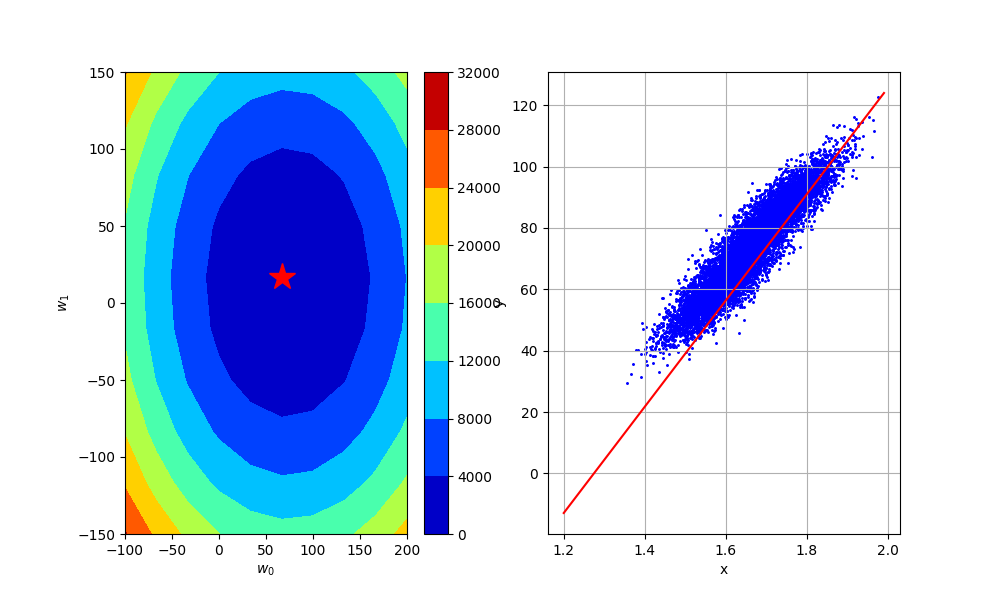
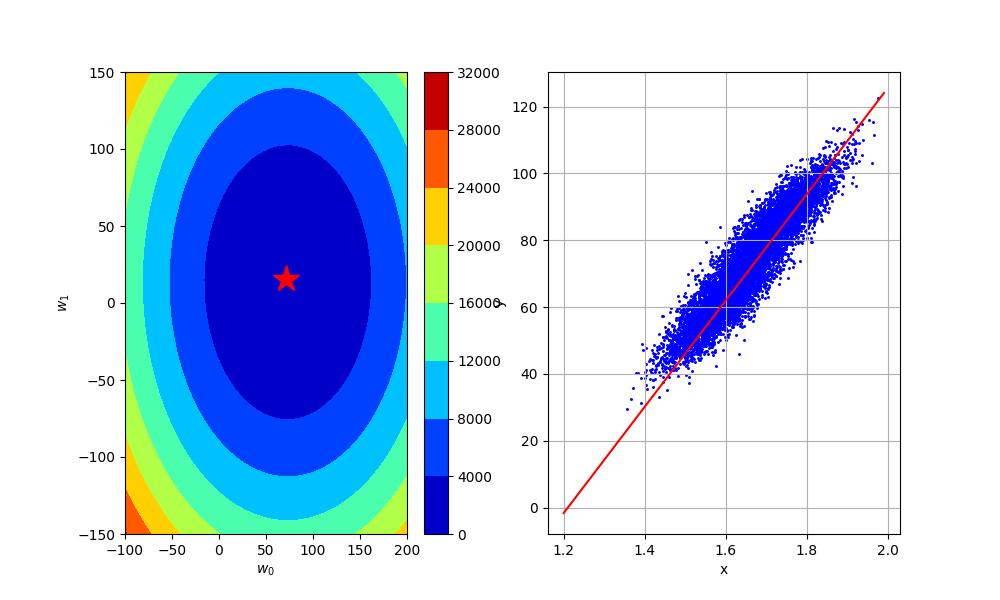
Segundo control de cambios

diff --git a/labs/ex02/template/grid_search.py b/labs/ex02/template/grid_search.py
@@ -20,9 +20,28 @@ def get_best_parameters(w0, w1, losses):
     min_row, min_col = np.unravel_index(np.argmin(losses), losses.shape)
     return losses[min_row, min_col], w0[min_row], w1[min_col]
 
-
-## ***************************************************
-## INSERT YOUR CODE HERE
-## TODO: Paste your implementation of grid_search
-##       here when it is done.
-## ***************************************************
+def grid_search(y, tx, grid_w0, grid_w1):
+    """Algorithm for grid search.
+        
+    Args:
+        y: numpy array of shape=(N, )
+        tx: numpy array of shape=(N,2)
+        grid_w0: numpy array of shape=(num_grid_pts_w0, ). A 1D array containing num_grid_pts_w0 values of parameter w0 to be tested in the grid search.
+        grid_w1: numpy array of shape=(num_grid_pts_w1, ). A 1D array containing num_grid_pts_w1 values of parameter w1 to be tested in the grid search.
+        
+    Returns:
+        losses: numpy array of shape=(num_grid_pts_w0, num_grid_pts_w1). A 2D array containing the loss value for each combination of w0 and w1
+    """
+    e= []
+    # ***************************************************
+    losses = np.zeros((len(grid_w0), len(grid_w1)))
+    dim = grid_w0.shape[0]
+    dim1 = grid_w1.shape[0]
+    grid_vector= np.zeros((dim,0))
+    for grid in range(dim):
+            for grid_1 in range(dim1):
+                w = np.array([ grid_w0[grid] , grid_w1[grid_1]])
+                losses[grid,grid_1] , e = compute_loss(y, tx, w, 'mse')
+    #raise NotImplementedError
+    return losses
+    # ***************************************************

diff --git a/labs/ex02/template/gradient_descent.py b/labs/ex02/template/gradient_descent.py
@@ -41,22 +41,15 @@ def gradient_descent(y, tx, initial_w, max_iters, gamma):
     ws = [initial_w]
     losses = []
     w = initial_w
+    #gradient = compute_gradient(y, tx, initial_w)
     for n_iter in range(max_iters):
-        # ***************************************************
-        # INSERT YOUR CODE HERE
-        # TODO: compute gradient and loss
-        # ***************************************************
-        raise NotImplementedError
-        # ***************************************************
-        # INSERT YOUR CODE HERE
-        # TODO: update w by gradient
-        # ***************************************************
-        raise NotImplementedError
-
+        gradient = compute_gradient(y, tx, w)
+        loss = compute_loss(y, tx, w, 'mse')
+        w = w - gamma*gradient #here we compute w(t+1) = w(t) - gamma*Grad(error)
         # store w and loss
         ws.append(w)
         losses.append(loss)
         print("GD iter. {bi}/{ti}: loss={l}, w0={w0}, w1={w1}".format(
-            bi=n_iter, ti=max_iters - 1, l=loss, w0=w[0], w1=w[1]))
+              bi=n_iter, ti=max_iters - 1, l=loss, w0=w[0], w1=w[1]))
 
     return losses, ws
